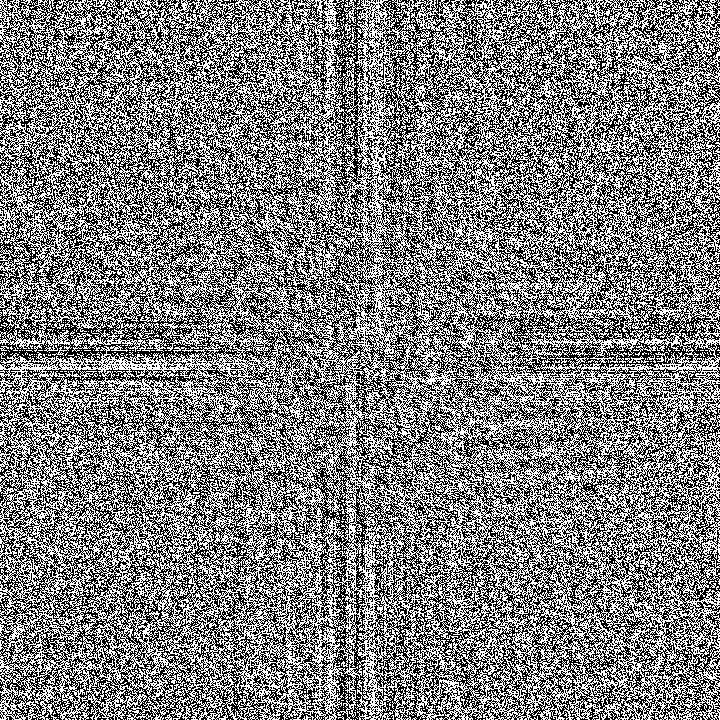
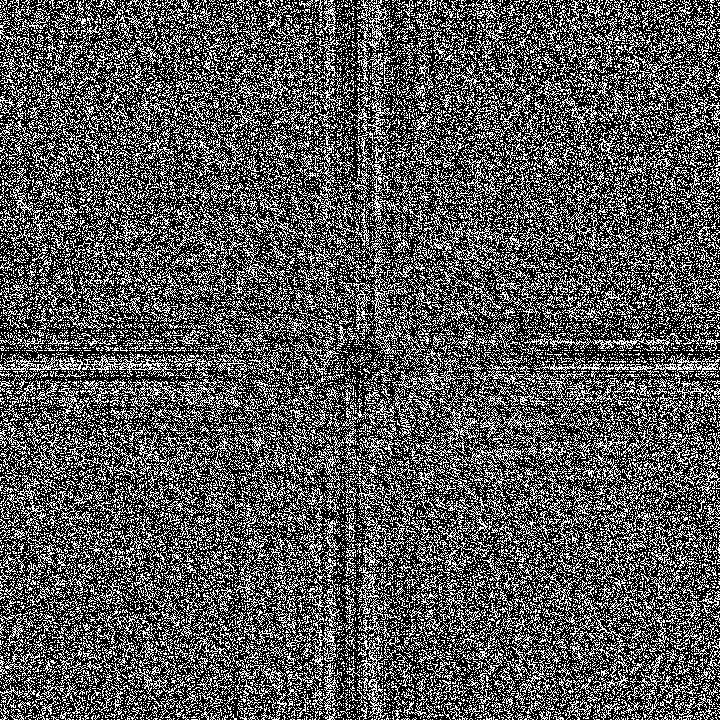
Correcciones de la manera en que sumo fases

Changed region(s): [[0.0, 0.0, 1.0, 1.0]]

diff --git a/IO_Entrega1_Punto4a.py b/IO_Entrega1_Punto4a.py
@@ -28,14 +28,14 @@ def transmittanceFP(UF1, w_length, f_length, deltau, deltav, M, N, u, v):
 	x,y=np.meshgrid(x,y)
 	lim=500**2   #radius of 500um
 	t2_matrix=(deltau*x)**2 + (deltav*y)**2
-	t2_matrix[np.where(t2_matrix<=lim)]=np.pi/2
+	t2_matrix[np.where(t2_matrix<=lim)]=(np.pi/2)
 	t2_matrix[np.where(t2_matrix>lim)]=1
 
 	phase=np.angle(UF1)  #Fourier Transform Phase
 
-	t2phase=t2_matrix*phase
+	t2phase=t2_matrix+phase
 
-	t2=np.abs(UF1)*np.exp(1j*t2phase)         
+	t2=(np.real(UF1))+(1j*t2phase)         
 
 	return t2phase,t2_matrix
 
@@ -99,6 +99,7 @@ UF2=secondlens(t2, deltau, deltav, w_length, f_length)
 
 print("shape of array", t1.shape)
 print("First 5 rows:\n", t1[:5])
+
 
 I0=np.log((np.abs(t1)**2))                    #Intensity
 angle0=np.angle(t1)                           #Phase
